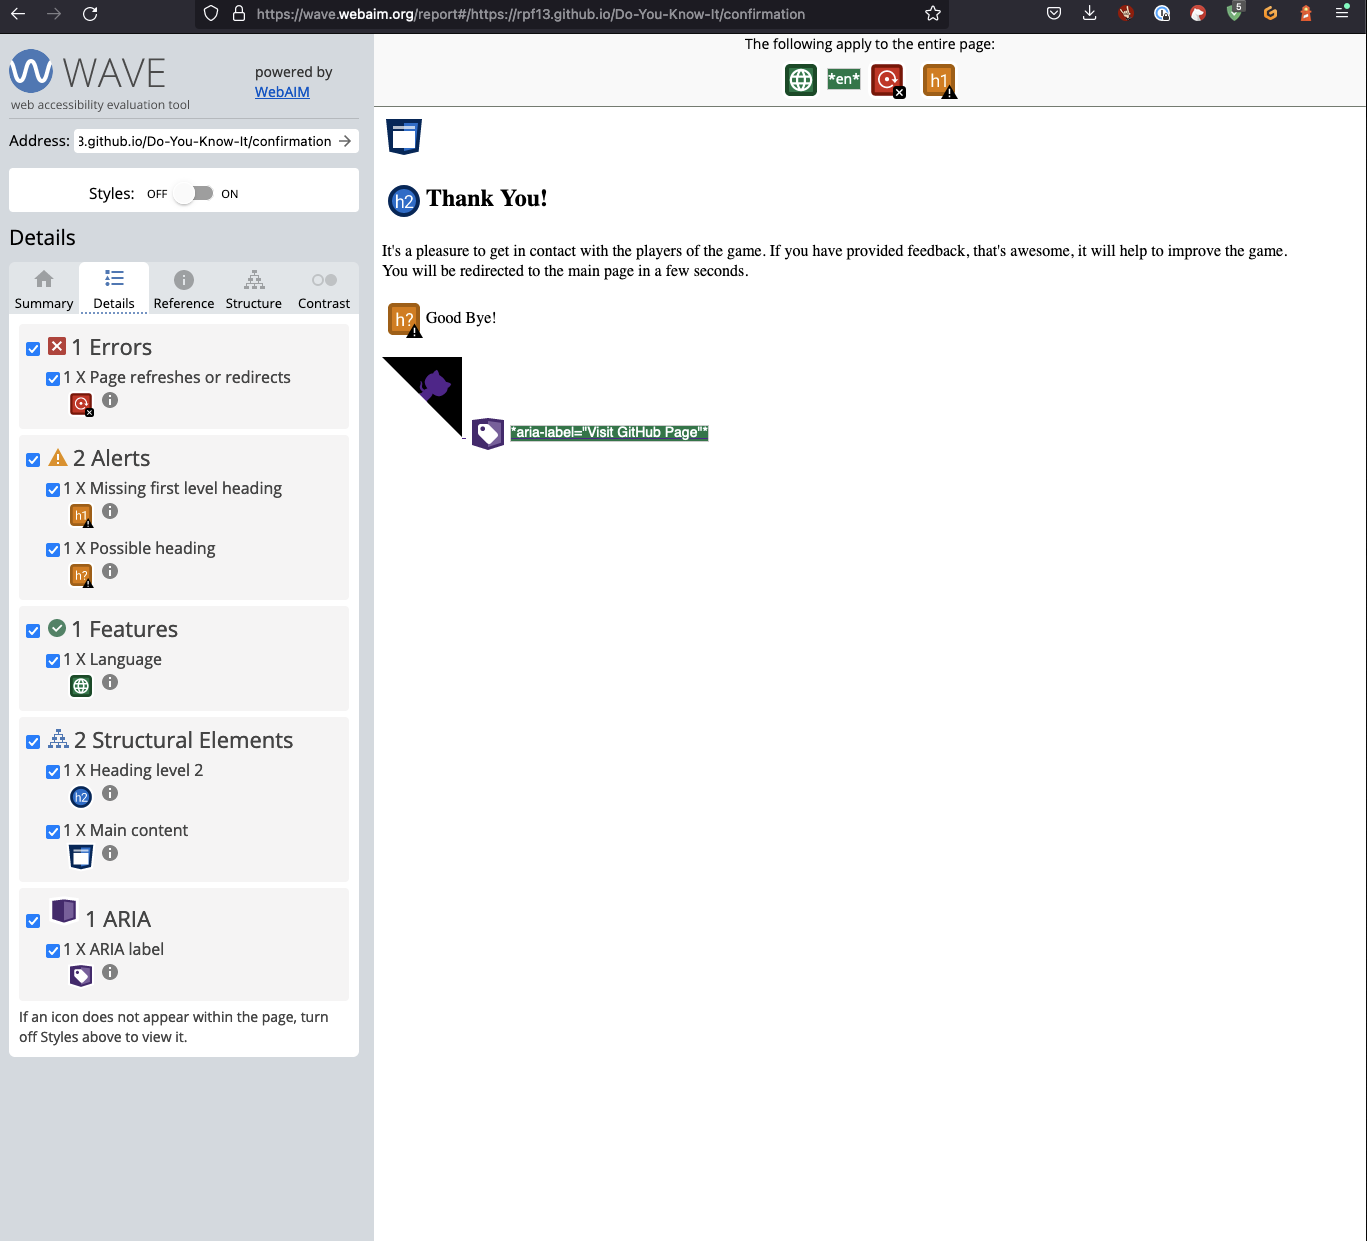
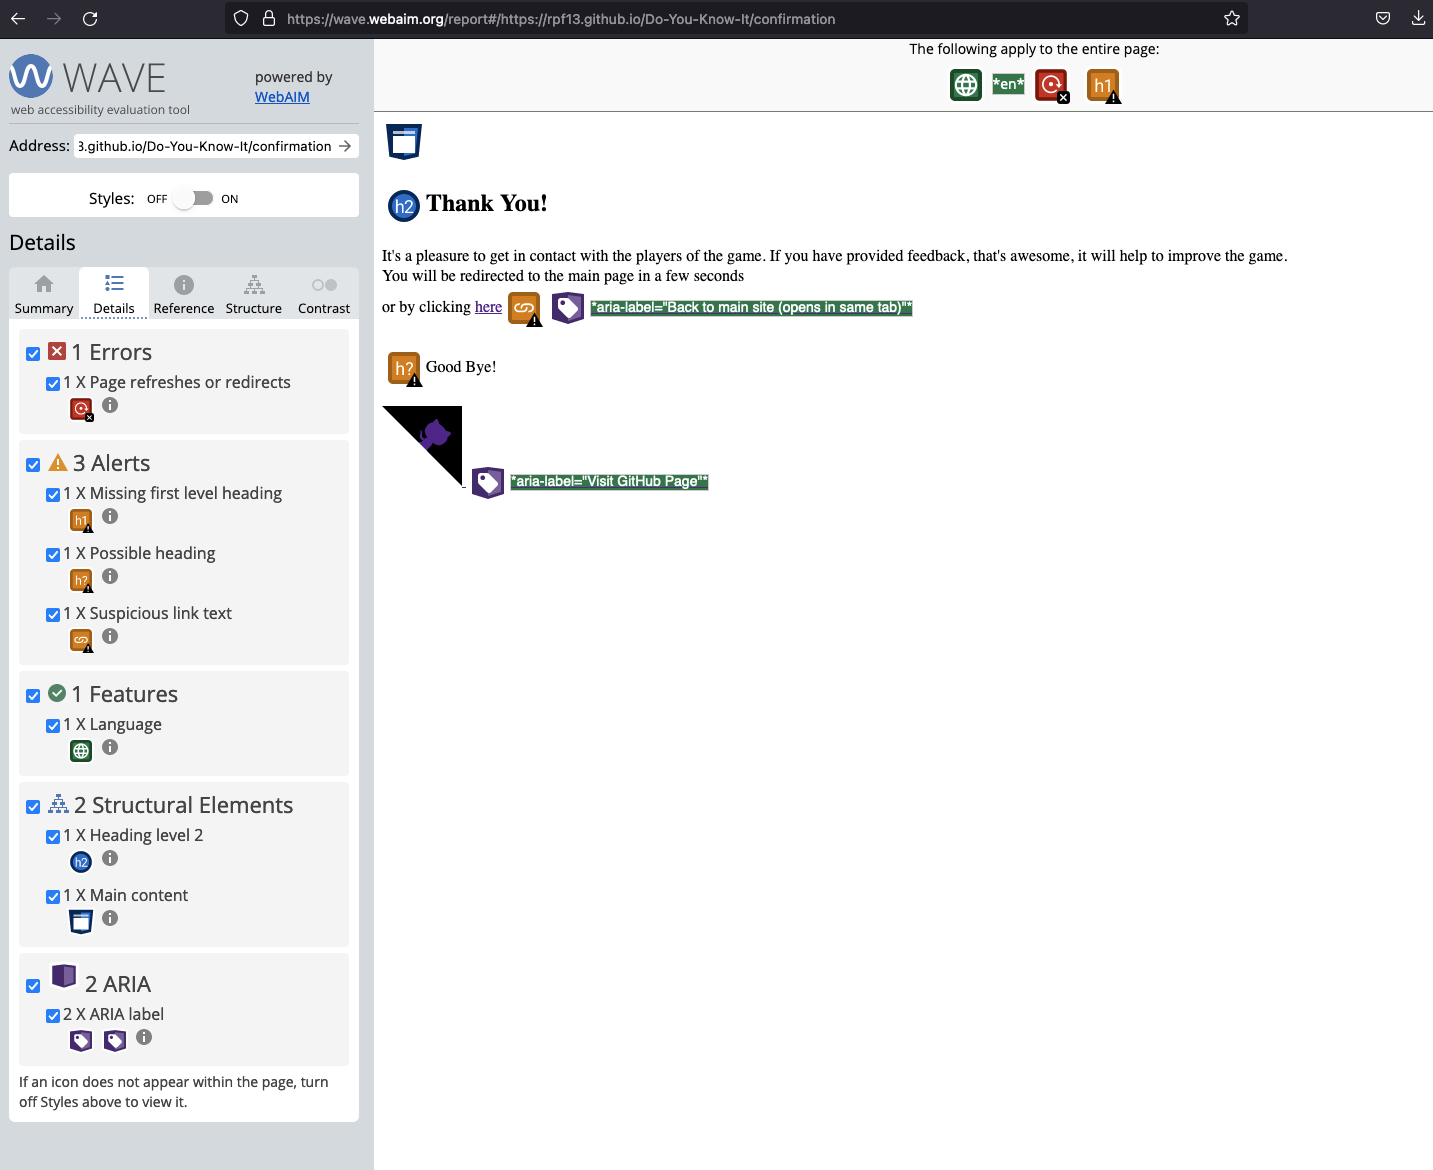
docs: Finalize readme & testing file

Changed region(s): [[0.0, 0.0, 1.0, 1.0]]

diff --git a/README.md b/README.md
@@ -153,7 +153,7 @@ The github repo "top right corner button" is also available on this site.
 
 ### Confirmation Site
 
-The confirmation page is not directly accessible from the main site. Once a user has submitted the feedback form, the feedback site will open. It will tell the user, that his feedback has been received, and that the feedback is appreciated. It will also tell the user, that he will be automatically redirected back to the main page after a few seconds.
+The confirmation page is not directly accessible from the main site. Once a user has submitted the feedback form, the feedback site will open. It will tell the user, that his feedback has been received, and that the feedback is appreciated. It will tell the user, that he will be automatically redirected back to the main page after a few seconds, where as there is also the option to click on the link to get immediately redirected back home.
 The github repo "top right corner button" is also available on this site.
 
 
@@ -226,6 +226,7 @@ The following features should be implemented in a next release. They will bring 
 - Give the player the option to choose the amount of questions, the different question topics as well as the level of difficulty
 - Implement a leaderboard BUT only if it is persistent and stored in a databease.
 - The javascript code could be optimised that an experinced user is no longer able to cheat and impact the overall results. Therfore the answer correct dataset should not be allocated in a "visible" way. Example from the function displQuest `button.dataset.correct = answer.correct`
+- Implement a nice looking confetti rain effect, once a player has answered all questions and has achieved a score of 80% or more. 
 
 ---
 
@@ -239,6 +240,10 @@ I used the following technologies and resources to create this site:
     - CSS root variables have been used in order to make it easier to maintain and adjust the code
     - CSS flexbox has been widely used to create a responsive layout
     - CSS grid has been used to create a responsive but also easy to maintain layout for the questions section
+- [JavaScript](https://www.javascript.com/)
+    - JavaScript has been used for dynamic content
+- [Ruby](https://www.ruby-lang.org/en/)
+    - Ruby has been used to create a script for fetching the opentdb
 - [Balsamiq](https://balsamiq.com)
     - Balsamiq has been used to create the Wireframes
 - [Google Fonts](https://fonts.google.com)

diff --git a/TESTING.md b/TESTING.md
@@ -90,7 +90,7 @@ I did run the [Wave Webaim Validator](https://wave.webaim.org/) validator on bot
 - Main site did not show any critical error
     ![Wave Webaim Main Site](docs/testing/wave_webaim_checker_main.png)
 
-- Confirmation site did not show any critical errors except the automatic redirect back to the main site, of the confirmation page. Since this behavior is mentioned in the text displayed, when the user accesses this site, I don't consider it as a critical error.
+- Confirmation site did not show any critical errors except the automatic redirect back to the main site, of the confirmation page. Since this behavior is mentioned in the text displayed, when the user accesses this site, I don't consider it as a critical error. Furthermore, the user has the option to click on the link embedded in the text, in order to get immediately redirected back home.
 
     ![Wave Webaim Confirmation Site](docs/testing/wave_webaim_checker_confirmation.png)
 
